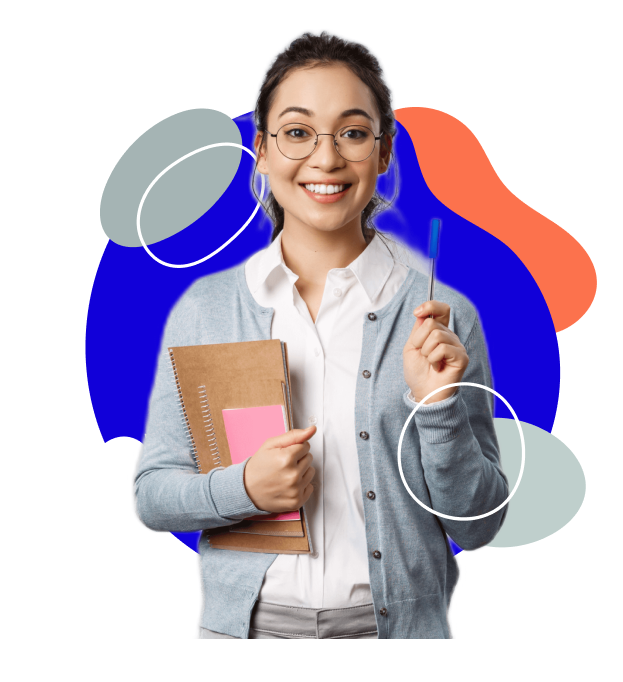
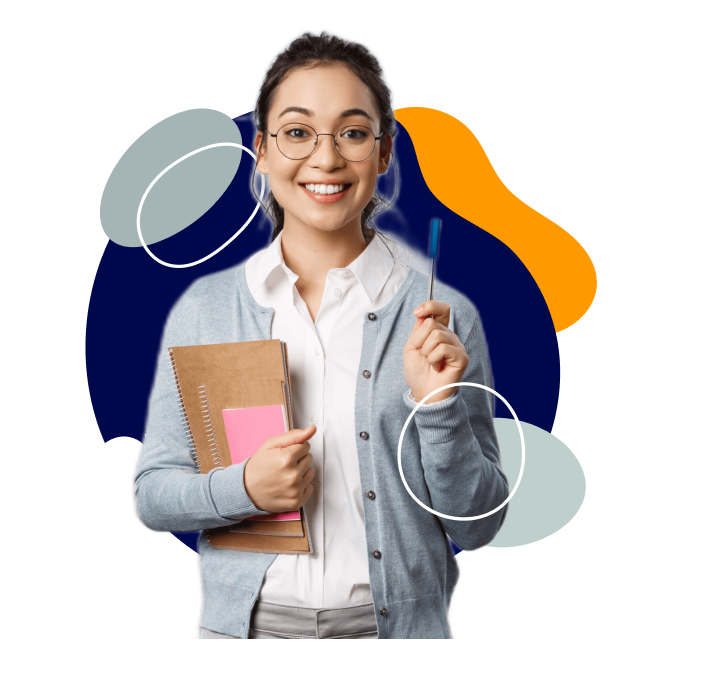
main

diff --git a/src/styles/Info/info.scss b/src/styles/Info/info.scss
@@ -11,7 +11,8 @@
       width: 100%;
       height: 6px;
       border-radius: 20px;
-      background: #1100D9;
+      background:
+              #00084D;
       margin-bottom: 50px;
     }
 
@@ -79,7 +80,8 @@
             font-style: normal;
             font-weight: 500;
             font-size: 22px;
-            color: #1100D9;
+            color:
+                    #00084D;
           }
         }
       }
@@ -103,19 +105,22 @@
     button {
       width: 250px;
       height: 50px;
-      border: 2px solid #1100D9;
+      border: 2px solid
+      #00084D;
       background: transparent;
       border-radius: 16px;
       font-family: 'Montserrat', sans-serif;
       font-style: normal;
       font-weight: 600;
       font-size: 18px;
-      color: #1100D9;
+      color:
+              #00084D;
       cursor: pointer;
       transition: .4s;
 
       &:hover {
-        background: #1100D9;
+        background:
+                #00084D;
         transform: scale(1.1);
         color: white;
       }
@@ -139,7 +144,8 @@
         width: 70%;
         height: 500px;
         border-radius: 20px;
-        border: 2px solid #1100D9;
+        border: 2px solid
+        #00084D;
         margin-top: 70px;
         background: #fff;
         padding: 20px 80px;

diff --git a/src/components/main/Spiner.js b/src/components/main/Spiner.js
@@ -11,13 +11,14 @@ const Spiner = () => {
                 width: "200px",
                 height: "200px"
             }} viewBox="0 0 100 100" preserveAspectRatio="xMidYMid">
-                <circle cx="50" cy="50" r="32" strokeWidth="8" stroke="#2435a1"
+                <circle cx="50" cy="50" r="32" strokeWidth="8" stroke="
+#00084D"
                         strokeDasharray="50.26548245743669 50.26548245743669" fill="none" strokeLinecap="round">
                     <animateTransform attributeName="transform" type="rotate" dur="0.8695652173913042s"
                                       repeatCount="indefinite" keyTimes="0;1"
                                       values="0 50 50;360 50 50"></animateTransform>
                 </circle>
-                <circle cx="50" cy="50" r="23" strokeWidth="8" stroke="rgba(59, 84, 240, 0.84)"
+                <circle cx="50" cy="50" r="23" strokeWidth="8" stroke=" rgba(0, 8, 77, 0.75)"
                         strokeDasharray="36.12831551628262 36.12831551628262" strokeDashoffset="36.12831551628262"
                         fill="none" strokeLinecap="round">
                     <animateTransform attributeName="transform" type="rotate" dur="0.8695652173913042s"

diff --git a/src/styles/tool/tool.scss b/src/styles/tool/tool.scss
@@ -28,16 +28,19 @@
         font-weight: 600;
         font-size: 22px;
         color: #FFFFFF;
-        background: #2435A1;
+        background:
+                #00084D;
         border-radius: 16px;
-        border: 1px solid #2435A1;
+        border: 1px solid
+        #00084D;
         cursor: pointer;
         transition: .4s;
 
         &:hover {
           transform: scale(1.1);
           background: transparent;
-          color: #2435A1;
+          color:
+                  #00084D;
         }
       }
     }
@@ -60,7 +63,8 @@
         width: 70%;
         height: 500px;
         border-radius: 20px;
-        border: 2px solid #1100D9;
+        border: 2px solid
+        #00084D;
         margin-top: 70px;
         background: #fff;
         padding: 20px 80px;
@@ -146,9 +150,11 @@
     font-weight: 600;
     font-size: 17px;
     color: #FFFFFF;
-    background: #2435A1;
+    background:
+            #00084D;
     border-radius: 16px;
-    border: 1px solid #2435A1;
+    border: 1px solid
+    #00084D;
     cursor: pointer;
     transition: .4s;
   }

diff --git a/src/styles/program/program.scss b/src/styles/program/program.scss
@@ -28,16 +28,16 @@
         font-weight: 600;
         font-size: 22px;
         color: #FFFFFF;
-        background: #2435A1;
+        background: #00084D;
         border-radius: 16px;
-        border: 1px solid #2435A1;
+        border: 1px solid #00084D;
         cursor: pointer;
         transition: .4s;
 
         &:hover {
           transform: scale(1.1);
           background: transparent;
-          color: #2435A1;
+          color: #00084D;
         }
       }
     }
@@ -60,7 +60,7 @@
         width: 70%;
         height: 500px;
         border-radius: 20px;
-        border: 2px solid #1100D9;
+        border: 2px solid #00084D;
         margin-top: 70px;
         background: #fff;
         padding: 20px 80px;
@@ -145,9 +145,9 @@
     font-weight: 600;
     font-size: 17px;
     color: #FFFFFF;
-    background: #2435A1;
+    background: #00084D;
     border-radius: 16px;
-    border: 1px solid #2435A1;
+    border: 1px solid #00084D;
     cursor: pointer;
     transition: .4s;
   }

diff --git a/src/components/main/home/hero.js b/src/components/main/home/hero.js
@@ -8,7 +8,7 @@ const Hero = () => {
             <div className="container">
                 <div className="hero-general">
                     <div>
-                        <h1 className="hero-general__title" style={{fontSize: media(30, 58), marginBottom: media(20, 60)}}>Талып Акун атындагы орто мектеп</h1>
+                        <h1 className="hero-general__title" style={{fontSize: media(30, 50), marginBottom: media(20, 60)}}>Зиямидин Каримбеков атындагы орто мектеби </h1>
                         <p className="hero-general__desc" style={{fontSize: media(15, 20)}}>Биздин эң сонун мектеп менен таанышууну каалагандардын
                             бардыгын тосуп алууга
                             кубанычтабыз!</p>

diff --git a/src/styles/Error/error.scss b/src/styles/Error/error.scss
@@ -3,6 +3,7 @@
   justify-content: center;
   align-items: center;
   flex-direction: column;
+
   div {
     h1 {
       font-family: 'Montserrat', sans-serif;
@@ -20,21 +21,22 @@
       font-weight: 900;
       line-height: 24px;
       letter-spacing: 0.2px;
-      color: #2435A1;
+      color: #00084D;
 
     }
+
     button {
       padding: 10px 60px;
       background: none;
-      font-family: 'Montserrat',sans-serif;
+      font-family: 'Montserrat', sans-serif;
       font-style: normal;
       font-weight: 700;
       font-size: 15px;
       line-height: 24px;
       text-align: center;
       letter-spacing: 0.2px;
-      color: #2435A1;
-      border: 3px solid #2435A1;
+      color: #00084D;
+      border: 3px solid #00084D;
       border-radius: 20px;
       cursor: pointer
     }

diff --git a/src/styles/Header/header.scss b/src/styles/Header/header.scss
@@ -1,5 +1,5 @@
 #header {
-  background: rgba(36, 53, 161, 0.84);
+  background: rgba(0, 8, 77, 0.75);
   backdrop-filter: blur(5px);
   position: fixed;
   width: 100%;
@@ -77,7 +77,8 @@
 
 /* Изменение цвета выпадающих ссылок при наведении курсора */
 .dropdown-content a:hover {
-  background-color: #2435A1;
+  background-color:
+          #00084D;
   border-radius: 10px;
   color: #FFFFFF;
 }

diff --git a/src/styles/Hero/hero.scss b/src/styles/Hero/hero.scss
@@ -36,7 +36,8 @@
     &__btn {
       border: 1px solid #fff;
       font-family: 'Montserrat', sans-serif;
-      color: #2435A1;
+      color:
+              #00084D;
       background: #FFFFFF;
       border-radius: 18px;
       transition: .4s;
@@ -141,6 +142,7 @@
     margin-bottom: 30px;
   }
   #hero {
-    background: #2435A1;
+    background:
+            #00084D;
   }
 }

diff --git a/src/styles/navbar.scss b/src/styles/navbar.scss
@@ -147,7 +147,8 @@
 
 /* Изменение цвета выпадающих ссылок при наведении курсора */
 .dropdown-content__2 a:hover {
-  background-color: #2435A1;
+  background-color:
+          #00084D;
   border-radius: 10px;
   color: #000;
 }

diff --git a/src/styles/App.css b/src/styles/App.css
@@ -26,6 +26,7 @@ a, a:hover {
 
 ::-webkit-scrollbar-thumb{
     /*background: #2435A1;*/
-    background: #2435A1;
+    background:
+            #00084D;
     border-radius: 50px;
 }
